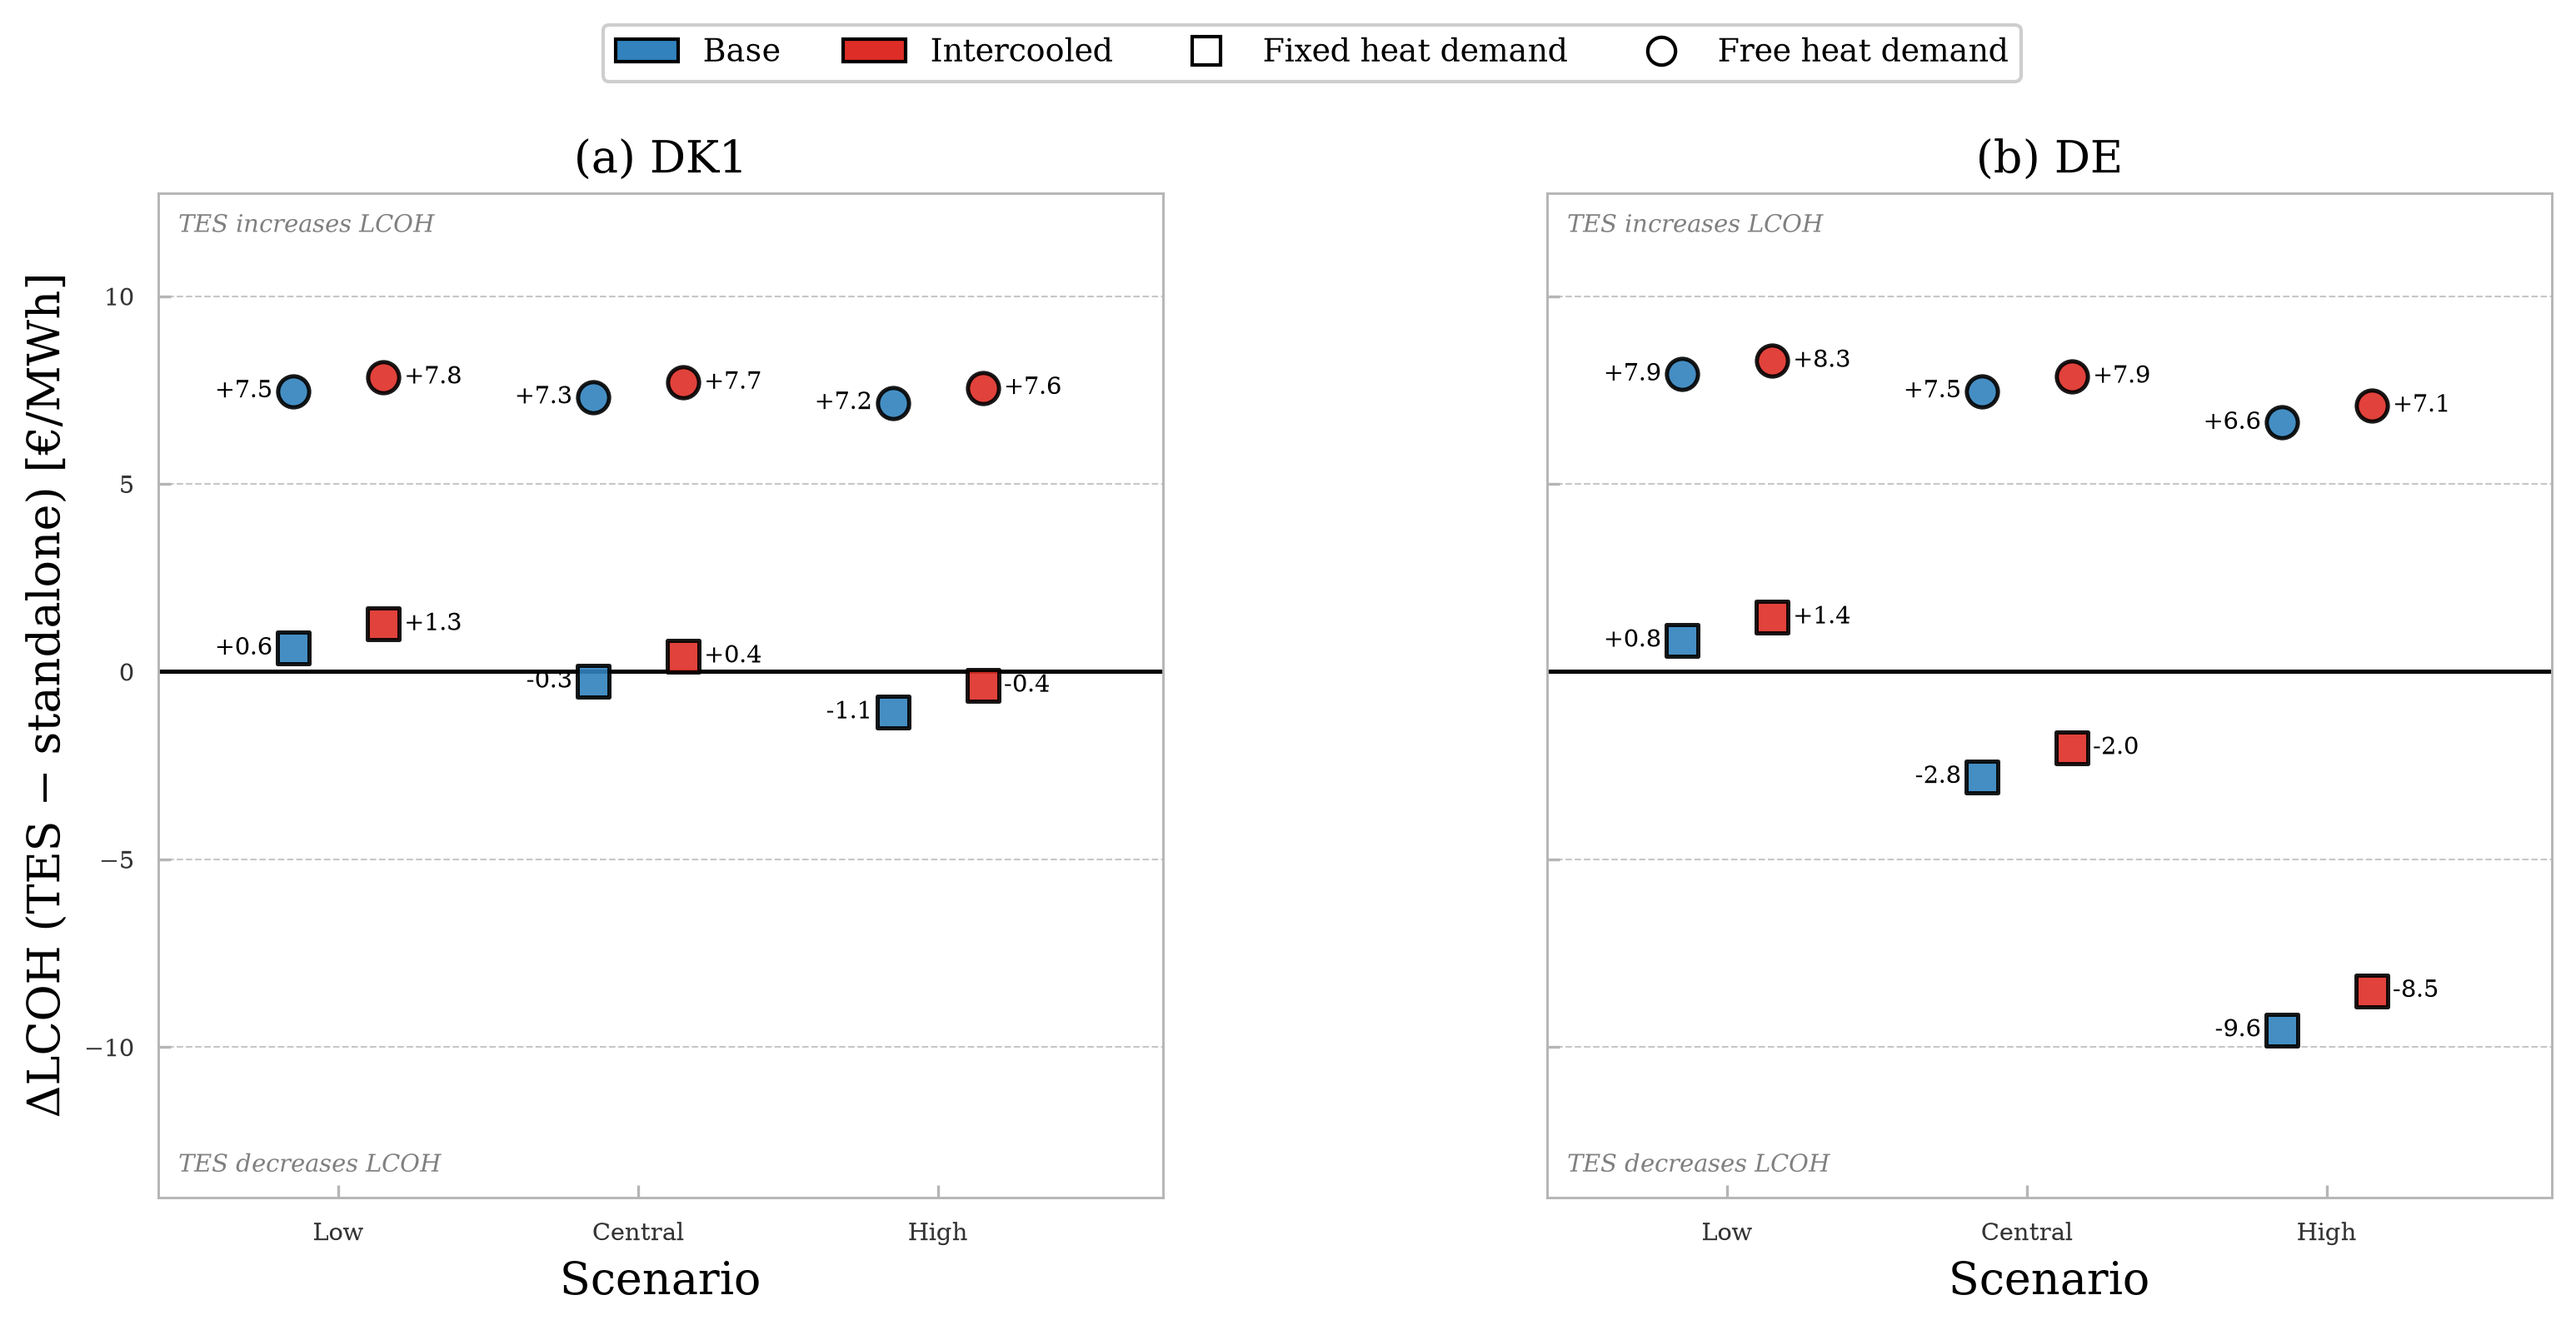
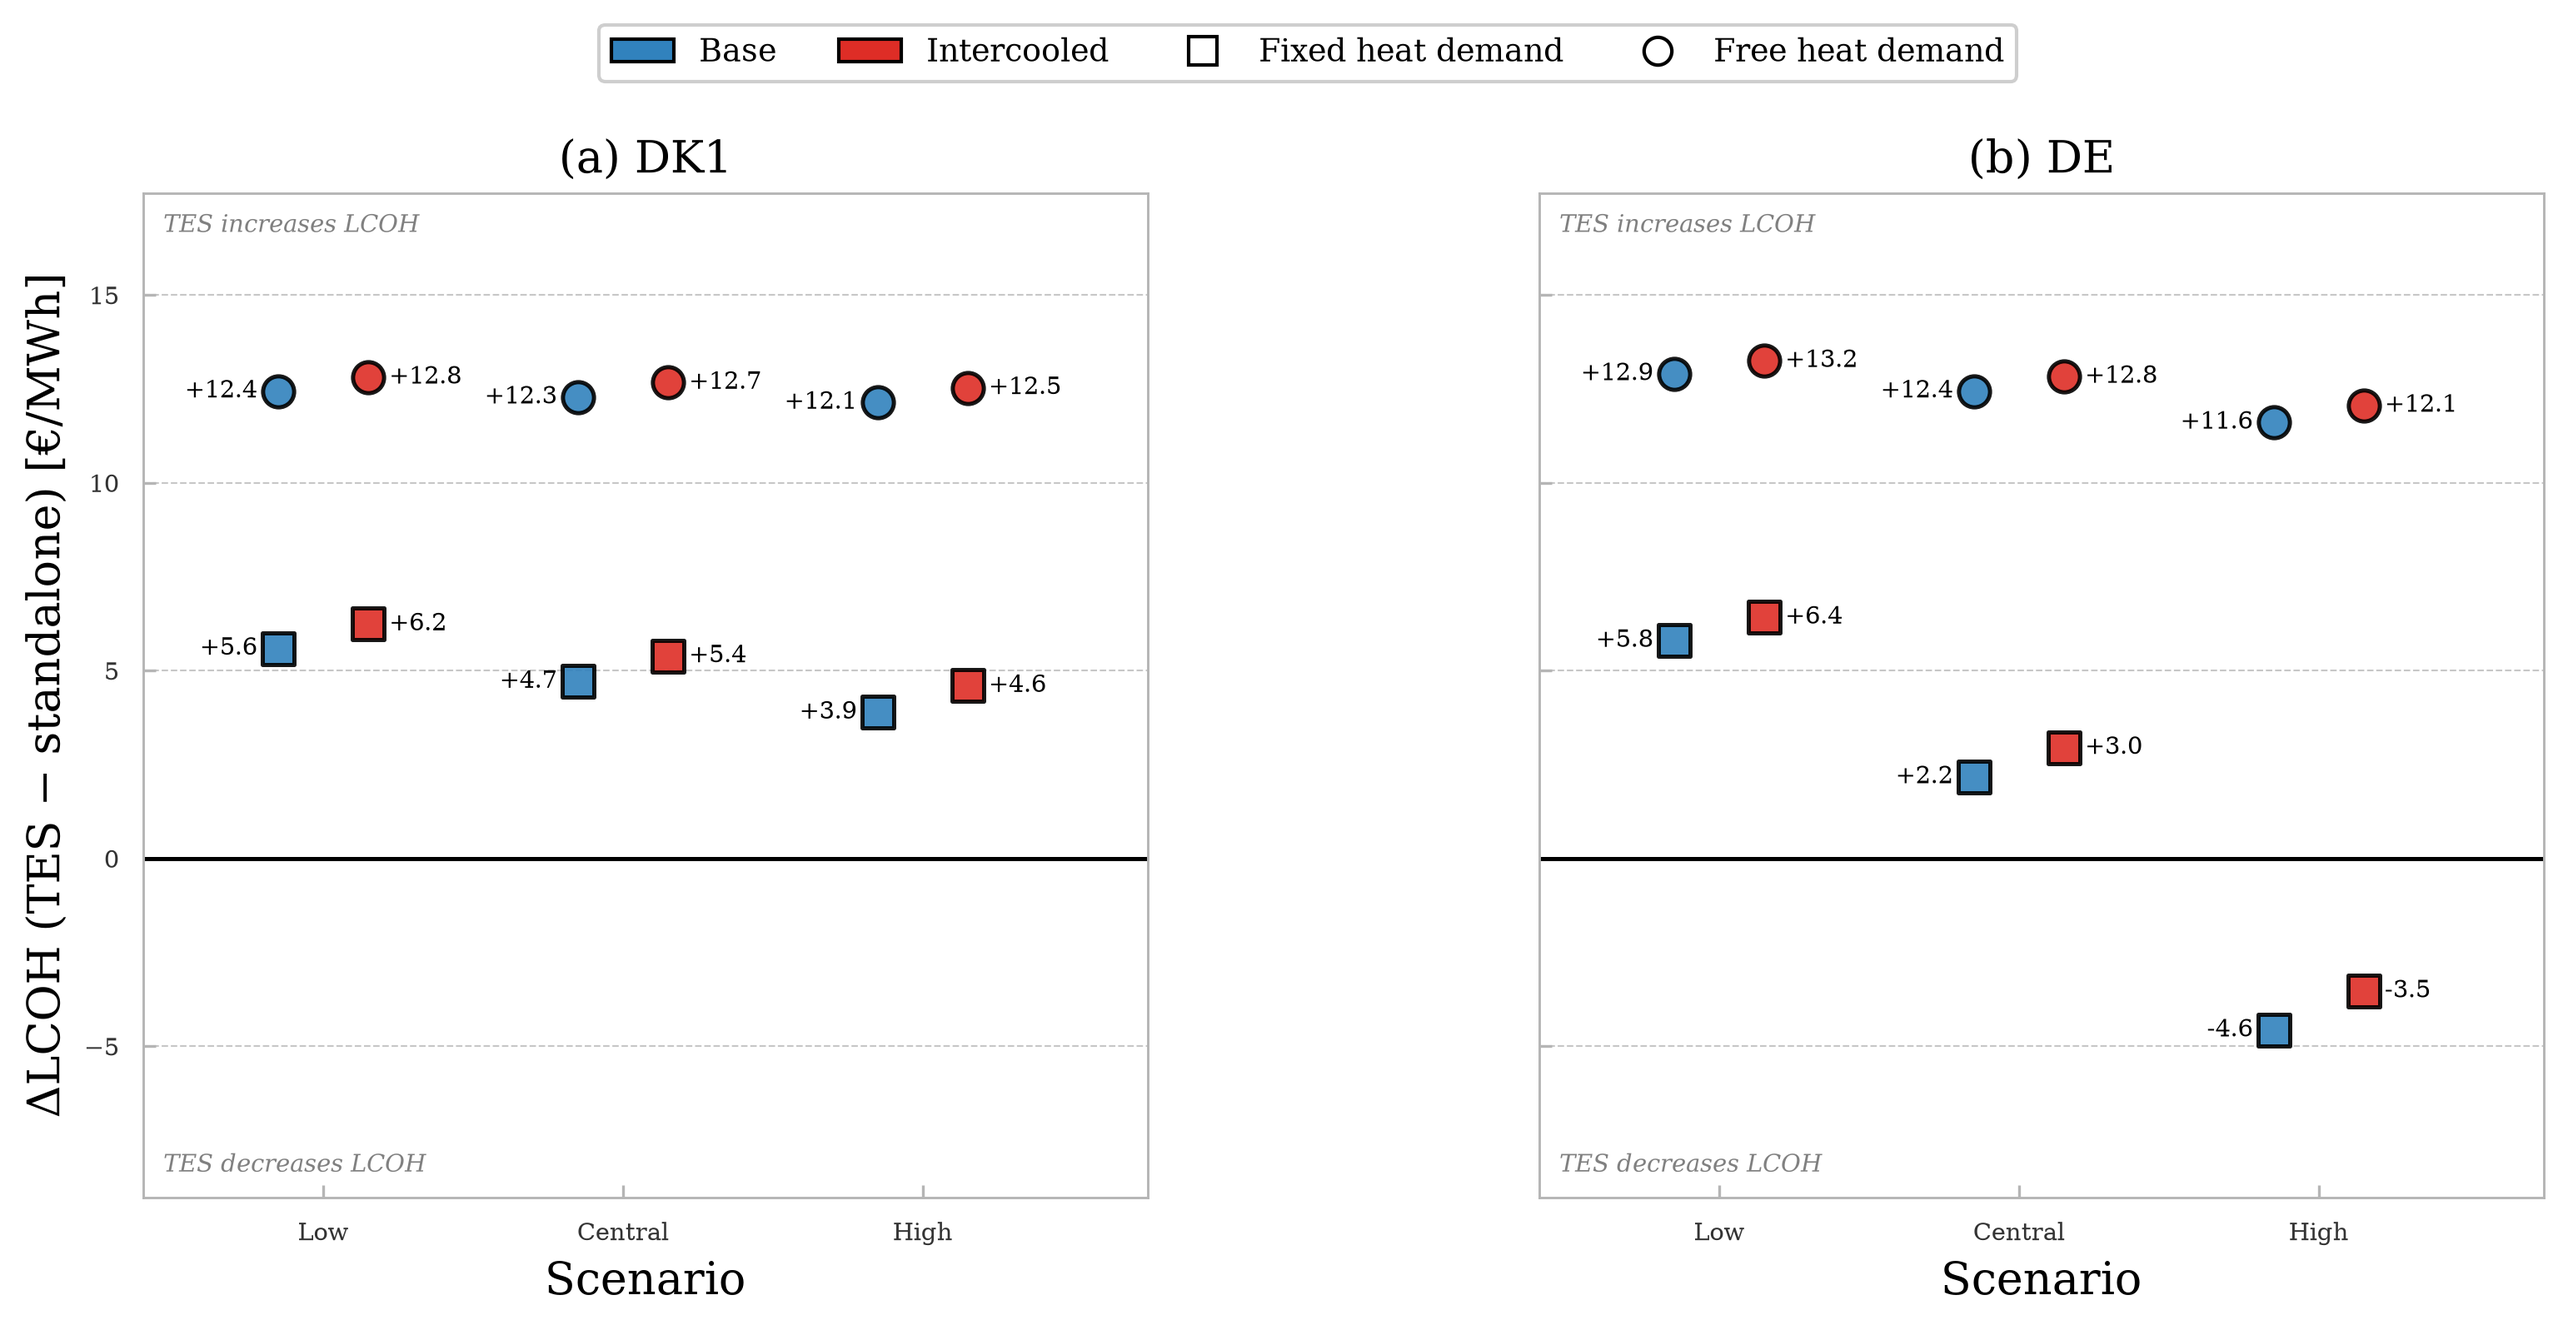
combined exergy generation for plots

diff --git a/main/all_hthp.py b/main/all_hthp.py
@@ -14,6 +14,7 @@ from src import (
     plot_exergy_destruction_stacked,
     plot_component_cost_stacked,
     plot_exergetic_efficiencies,
+    plot_exergy_plots,
     plot_lcoh_scenarios_stacked,
     plot_delta_lcoh_analysis,
 )
@@ -74,6 +75,16 @@ plot_component_cost_stacked(
 plot_exergetic_efficiencies(
     exergy_csv_paths,
     cycle_labels=cycle_labels,
+    save_path=FIGURES_DIR,
+    file_name="all_hthp",
+)
+
+plot_exergy_plots(
+    exergy_csv_paths,
+    cycle_labels=cycle_labels,
+    plots=["destruction", "efficiencies"],
+    combined=True,
+    layout="horizontal",
     save_path=FIGURES_DIR,
     file_name="all_hthp",
 )
